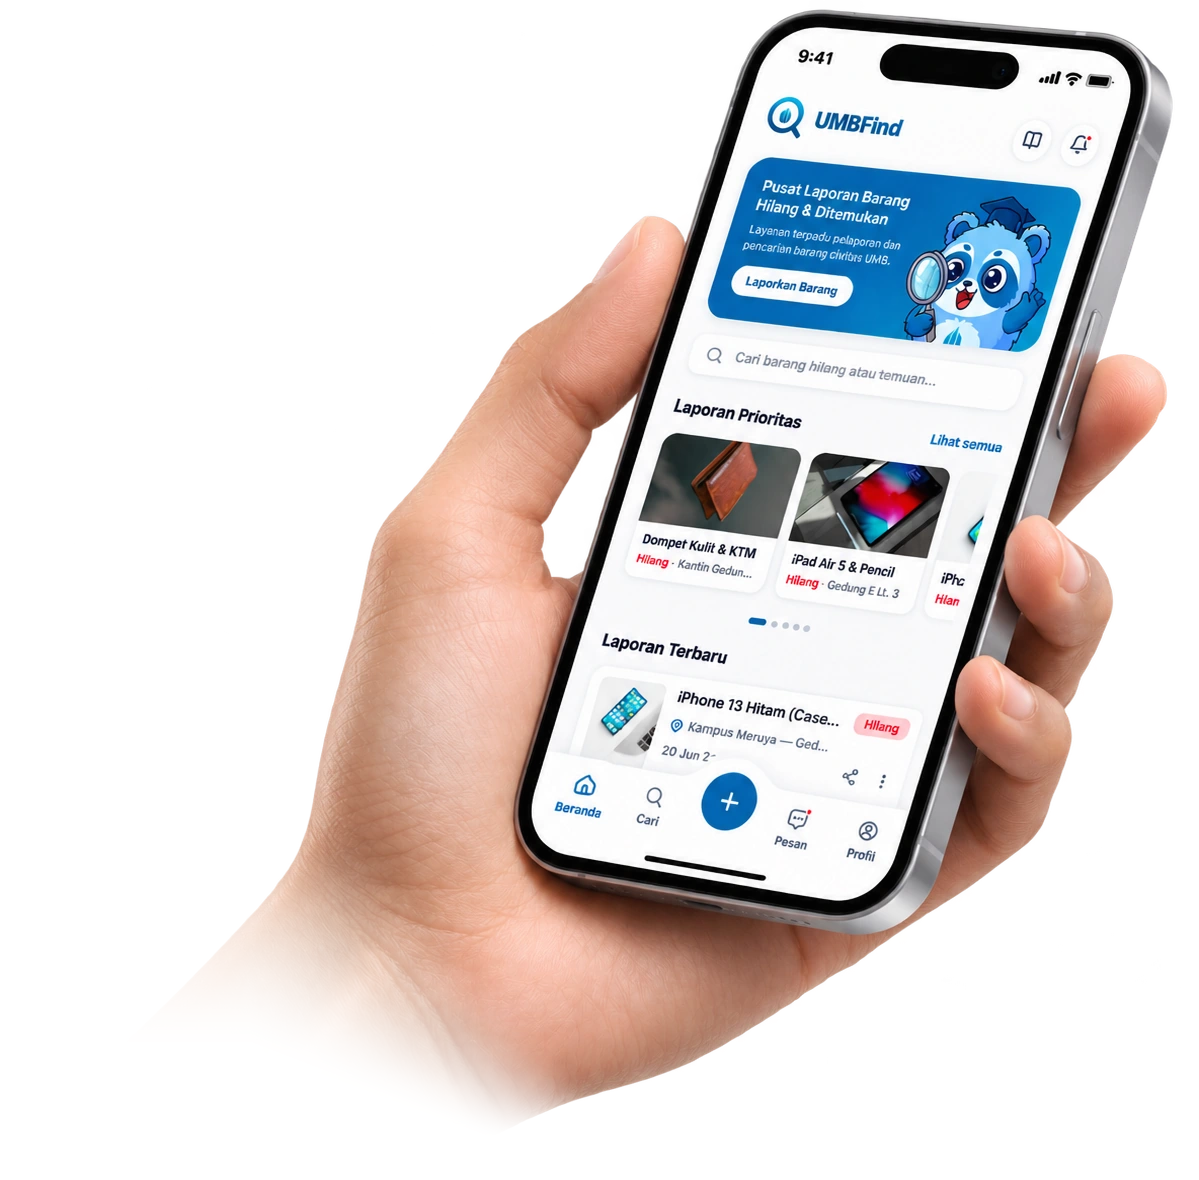
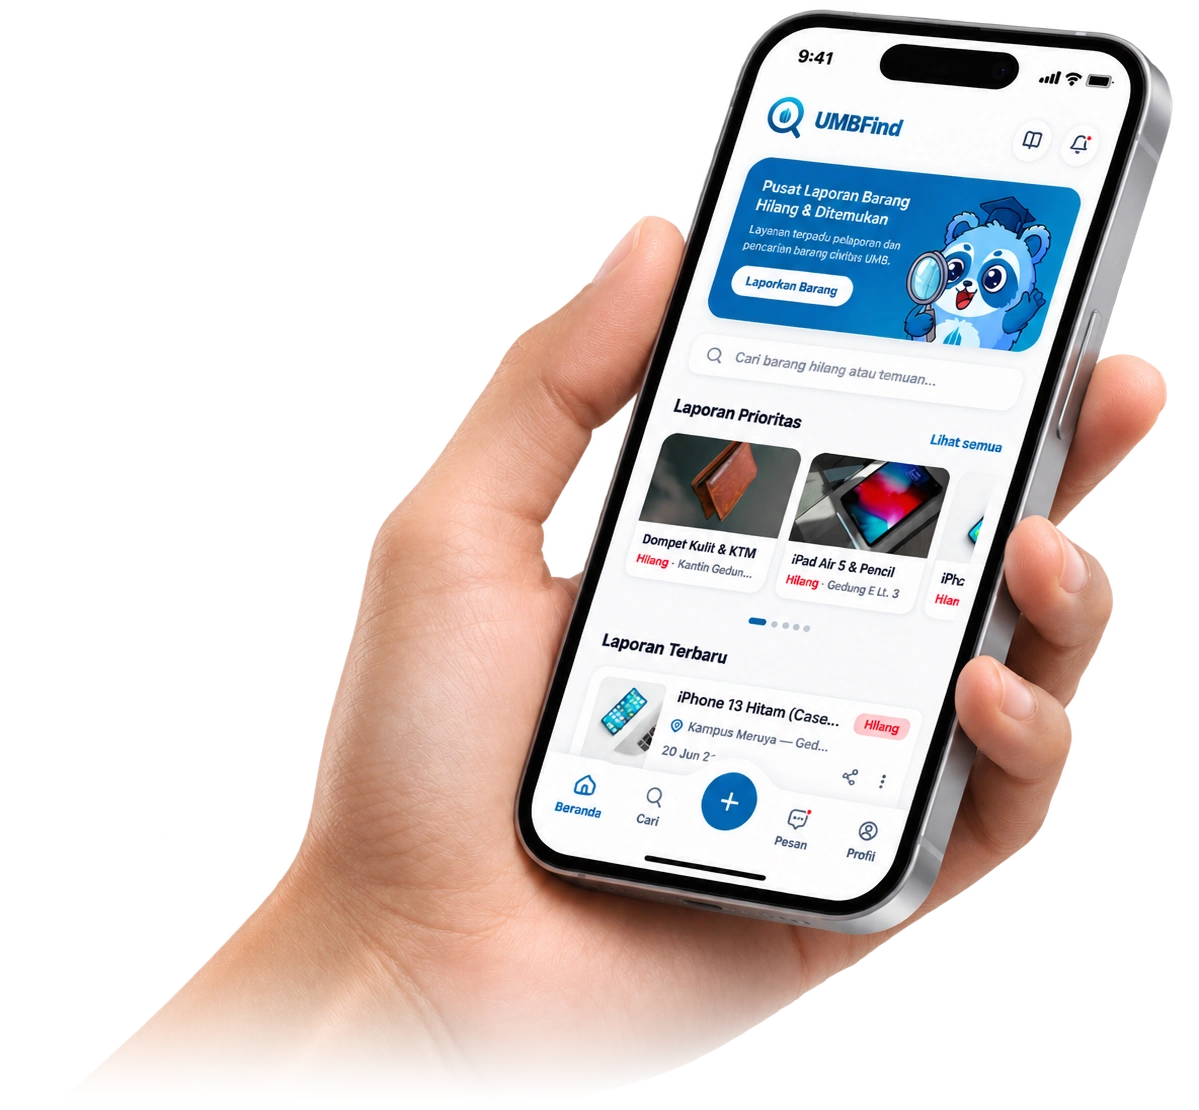
style(landing): apply uniform horizontal fade out across mockup base and enlarge composition

Changed region(s): [[0.0926, 0.0, 0.9875, 0.9802]]

diff --git a/resources/views/landing.blade.php b/resources/views/landing.blade.php
@@ -333,12 +333,12 @@
             overflow: visible;
         }
 
-        /* Mockup Container (Ukuran Proporsional & Transisi Fade Alami) */
+        /* Mockup Container (Ukuran Lebih Besar & Transisi Fade Horizontal Alami) */
         .hero-mockup-wrapper {
             position: relative;
             z-index: 10;
             width: 100%;
-            max-width: 720px;
+            max-width: 960px;
             display: flex;
             justify-content: center;
             margin-bottom: -1px;
@@ -465,11 +465,11 @@
 
             <!-- Centerpiece Smartphone Mockup Stage -->
             <div class="hero-mockup-stage">
-                <!-- Hand holding iPhone Phone Mockup (New Version 2 with Smooth Native Fade) -->
+                <!-- Hand holding iPhone Phone Mockup (New Version 2 with Uniform Horizontal Fade) -->
                 <div class="hero-mockup-wrapper">
                     <picture>
                         <source srcset="{{ asset('images/phone-mockup-2.webp') }}" type="image/webp">
-                        <img src="{{ asset('images/phone-mockup-2.png') }}" alt="Mockup Aplikasi UMBFind di Ponsel" class="hero-phone-img" width="1199" height="1180" loading="eager">
+                        <img src="{{ asset('images/phone-mockup-2.png') }}" alt="Mockup Aplikasi UMBFind di Ponsel" class="hero-phone-img" width="1199" height="1110" loading="eager">
                     </picture>
                 </div>
             </div>
